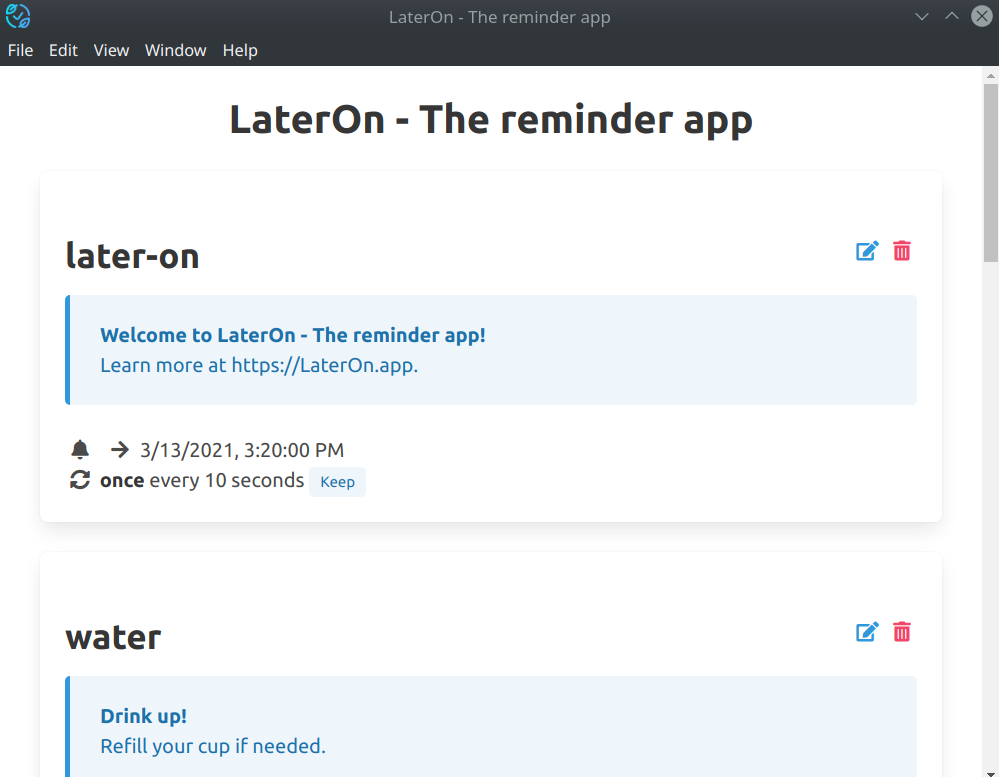
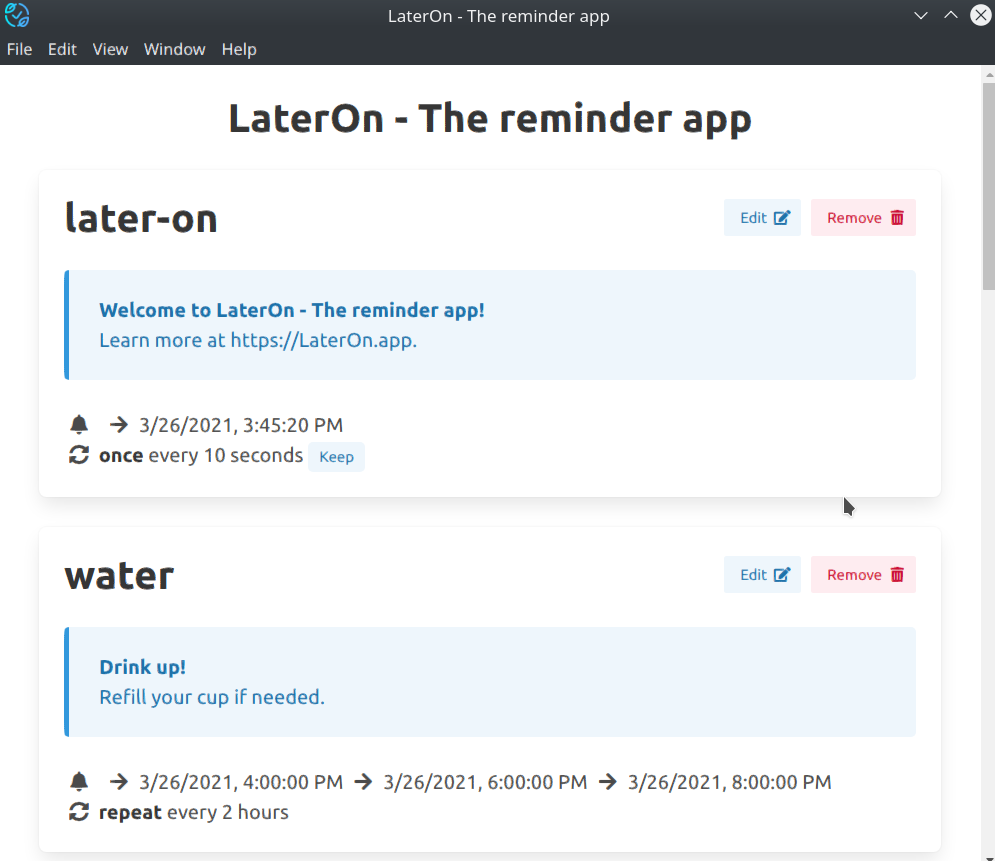
Improve UI, docs

diff --git a/later-on.js b/later-on.js
@@ -75,109 +75,121 @@ const reminders = new Reef('#reminders', {
       props.reminders.map((reminder, index) => {
         return `
           <div class='box' data-index="${index}">
-            <div class='content'>
-              <article class='is-pulled-right'>
-                <span class='icon has-text-info'>
-                  <i class="is-clickable fas fa-edit edit"></i>
-                </span>
-                <span class='icon has-text-danger'>
-                  <i class='is-clickable fas fa-trash-alt remove'></i>
-                </span>
-              </article>
-              ${reminder.editing
-                ? `
-                    <form class="edit">
-                      <input type="text" name="oldname" value="${reminder.name}" hidden>
-                      <div class="field">
-                        <label class="label" for="name">Name</label>
-                        <div class="control">
-                          <input class="input" type="text" name="name" reef-default-value="${reminder.name}" placeholder="Unique name">
-                        </div>
+            <nav class="level">
+              <div class="level-left">
+                <div class="level-item">
+                  <span class="title">${reminder.name}</span>
+                </div>
+              </div>
+              <div class="level-right">
+                <div class="level-item buttons">
+                  <button class="button is-light is-small is-info edit">
+                    <span>Edit</span>
+                    <span class="icon is-small">
+                      <i class="fas fa-edit"></i>
+                    </span>
+                  </button>
+                  <button class="button is-light is-small is-danger remove">
+                    <span>Remove</span>
+                    <span class="icon is-small">
+                      <i class="fas fa-trash-alt"></i>
+                    </span>
+                  </button>
+                </div>
+              </div>
+            </nav>
+            ${reminder.editing
+              ? `
+                  <form class="edit">
+                    <input type="text" name="oldname" value="${reminder.name}" hidden>
+                    <div class="field">
+                      <label class="label" for="name">Name</label>
+                      <div class="control">
+                        <input class="input" type="text" name="name" reef-default-value="${reminder.name}" placeholder="Unique name">
                       </div>
-                      <div class="field">
-                        <label class="label">Notification title</label>
-                        <div class="control">
-                          <input class="input" name="title" type="text" reef-default-value="${reminder.title}" placeholder="Notification title">
-                        </div>
-                      </div>
-                      <div class="field">
-                        <label class="label">Notification body</label>
-                        <div class="control">
-                          <input class="input" name="body" type="text" reef-default-value="${reminder.body}" placeholder="Notification body">
-                        </div>
-                      </div>
-                      <div class="field">
-                        <label class="label">Type</label>
-                        <div class="control">
-                          <div class="select">
-                            <select name="type">
-                              <option ${reminder.type === 'repeat' ? 'reef-default-selected' : ''}>repeat</option>
-                              <option ${reminder.type === 'once' ? 'reef-default-selected' : ''}>once</option>
-                              <option ${reminder.type === 'cron' ? 'reef-default-selected' : ''}>cron</option>
-                            </select>
-                          </div>
-                        </div>
-                      </div>
-                      <div class="field">
-                      ${reminder.editingType === 'once'
-                        ? `<label class="checkbox">
-                            <input type="checkbox" name="keep" ${reminder.keep ? 'reef-default-checked' : ''} >
-                            Don't remove after the notification.
-                          </label>`
-                        : ''
-                      }
-                      </div>
-                      <div class="field">
-                        <label class="label">Interval</label>
-                        <div class="control">
-                          <input class="input" name="interval" type="text" reef-default-value="${reminder.interval}" placeholder="Interval">
-                        </div>
-                      </div>
-                      <div class="field">
-                        <p class="help validation">${reminder.validation}</p>
-                      </div>
-                      <div class="field is-grouped">
-                        <div class="control">
-                          <a class="button is-link submit update" ${reminder.canSubmit ? '' : 'disabled'}>Submit</a>
-                        </div>
-                        <div class="control">
-                          <a class="button is-link is-light edit">Cancel</a>
-                        </div>
-                      </div>
-                    </form>
-                  `
-                : `
-                  <h2>${reminder.name}</h2>
-                  <article class='message is-info'>
-                    <div class='message-body'>
-                      <strong>${reminder.title}</strong><br/>
-                      ${reminder.body}
                     </div>
-                  </article>
-                  <article class='icon-text'>
-                    <span class='icon'>
-                      <i class='fas fa-bell'></i>
-                    </span>
-                    ${reminder.schedules.map((t) => {
-                    return `
-                    <span class='icon'>
-                      <i class='fas fa-arrow-right'></i>
-                    </span>
-                    <span>${new Date(t).toLocaleString()}</span>
-                    `
-                    }).join('')}
-                  </article>
-                  <article>
-                    <span class='icon'>
-                      <i class='fas fa-sync-alt'></i>
-                    </span>
-                    <strong>${reminder.type}</strong>
-                    ${reminder.interval}
-                    ${reminder.keep ? '<span class="tag is-info is-light">Keep</span>' : ''}
-                  </article>
+                    <div class="field">
+                      <label class="label">Notification title</label>
+                      <div class="control">
+                        <input class="input" name="title" type="text" reef-default-value="${reminder.title}" placeholder="Notification title">
+                      </div>
+                    </div>
+                    <div class="field">
+                      <label class="label">Notification body</label>
+                      <div class="control">
+                        <input class="input" name="body" type="text" reef-default-value="${reminder.body}" placeholder="Notification body">
+                      </div>
+                    </div>
+                    <div class="field">
+                      <label class="label">Type</label>
+                      <div class="control">
+                        <div class="select">
+                          <select name="type">
+                            <option ${reminder.type === 'repeat' ? 'reef-default-selected' : ''}>repeat</option>
+                            <option ${reminder.type === 'once' ? 'reef-default-selected' : ''}>once</option>
+                            <option ${reminder.type === 'cron' ? 'reef-default-selected' : ''}>cron</option>
+                          </select>
+                        </div>
+                      </div>
+                    </div>
+                    <div class="field">
+                    ${reminder.editingType === 'once'
+                      ? `<label class="checkbox">
+                          <input type="checkbox" name="keep" ${reminder.keep ? 'reef-default-checked' : ''} >
+                          Don't remove after the notification.
+                        </label>`
+                      : ''
+                    }
+                    </div>
+                    <div class="field">
+                      <label class="label">Interval</label>
+                      <div class="control">
+                        <input class="input" name="interval" type="text" reef-default-value="${reminder.interval}" placeholder="Interval">
+                      </div>
+                    </div>
+                    <div class="field">
+                      <p class="help validation">${reminder.validation}</p>
+                    </div>
+                    <div class="field is-grouped">
+                      <div class="control">
+                        <a class="button is-link submit update" ${reminder.canSubmit ? '' : 'disabled'}>Submit</a>
+                      </div>
+                      <div class="control">
+                        <button class="button is-link is-light edit">Cancel</button>
+                      </div>
+                    </div>
+                  </form>
                 `
-              }
-            </div>
+              : `
+                <article class='message is-info'>
+                  <div class='message-body'>
+                    <strong>${reminder.title}</strong><br/>
+                    ${reminder.body}
+                  </div>
+                </article>
+                <article class='icon-text'>
+                  <span class='icon'>
+                    <i class='fas fa-bell'></i>
+                  </span>
+                  ${reminder.schedules.map((t) => {
+                  return `
+                  <span class='icon'>
+                    <i class='fas fa-arrow-right'></i>
+                  </span>
+                  <span>${new Date(t).toLocaleString()}</span>
+                  `
+                  }).join('')}
+                </article>
+                <article>
+                  <span class='icon'>
+                    <i class='fas fa-sync-alt'></i>
+                  </span>
+                  <strong>${reminder.type}</strong>
+                  ${reminder.interval}
+                  ${reminder.keep ? '<span class="tag is-info is-light">Keep</span>' : ''}
+                </article>
+              `
+            }
           </div>
         `
       }).join('')
@@ -188,7 +200,8 @@ const reminders = new Reef('#reminders', {
 reminders.render()
 
 document.addEventListener('click', function (event) {
-  if (event.target.matches('.remove')) {
+  if (event.target.closest('button') && event.target.closest('button').matches('.remove')) {
+    event.preventDefault()
     const confirmation = confirm('Are you sure you want to remove this reminder?')
     if (confirmation) {
       const dataset = event.target.closest('.box').dataset
@@ -198,12 +211,14 @@ document.addEventListener('click', function (event) {
     }
   }
 
-  if (event.target.matches('.edit')) {
+  if (event.target.closest('button') && event.target.closest('button').matches('.edit')) {
+    event.preventDefault()
     const dataset = event.target.closest('.box').dataset
     store.do('updateValue', dataset.index, 'editing', '')
   }
 
   if (event.target.matches('.submit.update')) {
+    event.preventDefault()
     const dataset = event.target.closest('.box').dataset
     const form = event.target.closest('form')
     const data = new FormData(form)

diff --git a/main.js b/main.js
@@ -19,8 +19,8 @@ app.whenReady().then(() => {
           type: 'once',
           interval: 'every 10 seconds',
           keep: true,
-          title: 'Welcome to LaterOn!',
-          body: 'Add your own reminders by editing config file. Learn more at https://LaterOn.app.'
+          title: 'Welcome to LaterOn - The reiminder app!',
+          body: 'Learn more at https://LaterOn.app.'
         }
       ]
     }

diff --git a/later-on.html b/later-on.html
@@ -19,7 +19,7 @@
       </div>
     </div>
     <hr>
-    <div id="new">
+    <div id="new" class="block">
       <div class="has-text-centered">
         <i class="fas fa-spinner fa-spin"></i> Loading...
       </div>

diff --git a/README.md b/README.md
@@ -6,75 +6,49 @@
 
 *LaterOn* is a cross-platform [Electron](https://www.electronjs.org/) app that allows you to create custom reminders.
 
-Currently, *LaterOn* is considered an *alpha*-quality software. There's a UI to add/change/remove the reminders, plus menu items in Tray that allow you to open UI, quickly open config file, log file and Quit the app.
-
-Download from [Releases page](https://github.com/hovancik/later-on/releases).
+Currently, *LaterOn* is considered an *alpha*-quality software. Download it from [Releases page](https://github.com/hovancik/later-on/releases).
 
 [![Become a Sponsor!](https://img.shields.io/static/v1?label=Sponsor&message=%E2%9D%A4&logo=GitHub&color=success)](https://github.com/sponsors/hovancik) [![Become a Patron!](https://img.shields.io/static/v1?label=Sponsor&message=%E2%9D%A4&logo=Patreon&color=success)](https://www.patreon.com/hovancik)
 
-
 ## Reminders
 
-Reminders appear in a form of a regular OS notification.
+*LaterOn* lives in your tray and sends the reminders as defined by your schedule. They appear in a form of a regular OS notification. Here's an example of the default reminder that comes on the start of the app:
 
-<img src="notification.png" alt="LaterOn notification" height="100">
+<img src="notification.png" alt="LaterOn notification" height="90">
 
-You can set title and body of such a notification and when you would like it to be run.
+You can view your existing reminders from tray "Reminders" menu. Example notification is show, together with the next occurrences and the rule.
 
 <img src="reminders.png" alt="LaterOn">
 
-### Config file
+You can then edit or remove a reminder.
 
-You can add new reminders by editing config file (from tray menu) and then restarting *LaterOn* to load the changes done.
+<img src="edit-reminder.png" alt="LaterOn">
 
-Error will not be show if your timings can't be parsed, so you might want to check the log file when making changes via config file.
+**Name** is a unique identifier.
 
-#### Single run reminders
+**Notification title** is a title of the notification that you'll receive.
 
-On the first app run, example reminder gets created: we want to run only once (`"type": "once"`), but don't want to remove it (`"keep": true`) - user should do it manually. It will run ~10s every time after the app gets started (`"interval": "every 10 seconds"`).
+**Notification body** is a body of the notification that you'll receive.
 
-```json
-{
-  "reminders": [
-    {
-      "name": "later-on",
-      "type": "once",
-      "interval": "every 10 seconds",
-      "keep": true,
-      "title": "Welcome to Later On!",
-      "body": "Read more at https://lateron.app."
-    }
-  ]
-}
-```
-We use [this text parser](https://breejs.github.io/later/parsers.html#text) to specify when the reminder should be run.
+**Type** is an type of interval that you want to use. Can be either:
+  - **repeat** - notification is repeated according to the specified interval,
+  - **once** notification is shown once and then deleted - unless *Don't remove after the notification.* is checked.
+  - **cron** - which is a specific syntax for repeat type
 
-#### Multiple run reminders
+**Interval** let's you specify schedule for notifications.
 
- Let's say you want to reminder yourself to drink water every 2 hours. Specify [your interval](https://breejs.github.io/later/parsers.html#text) via `"type": "repeat"`.
+Here are some examples for *repeat* and *once* type *intervals*:
+- `every weekday at 9:00am also at 2:00pm`
+- `every weekday every 60 min starting on the 30th min after 8th hour and before 18th hour`
 
-```json
-{
-  "name": "water",
-  "type": "repeat",
-  "interval": "every 2 hours",
-  "title": "Drink up!",
-  "body": "Drink some water. Refill your cup if needed."
-}
-```
+Syntax is very flexible and you can learn more at [the docs of the used library](https://breejs.github.io/later/parsers.html#text).
 
-#### Cron reminders
-You can also use [cron](https://breejs.github.io/later/parsers.html#cron) synstax, ie. reminder to leave work at 5:15PM:
+You can also use [cron](https://breejs.github.io/later/parsers.html#cron) syntax.
 
-```json
-{
-  "name": "leave-work",
-  "type": "cron",
-  "interval": "15 17 ? * *",
-  "title": "Time to go :)",
-  "body": "Let's clock out, fill the time-sheets and run! "
-}
-```
+Same rules apply when adding new reminder, which can be found at the bottom of the screen.
+
+<img src="new-reminder.png" alt="LaterOn">
+
 
 ## Credits
 

diff --git a/CHANGELOG.md b/CHANGELOG.md
@@ -5,6 +5,12 @@ The format is based on [Keep a Changelog](https://keepachangelog.com/en/1.0.0/),
 and this project adheres to [Semantic Versioning](https://semver.org/spec/v2.0.0.html).
 
 ## [Unreleased]
+### Fixed
+- fix default reminder's notification
+
+### Changed
+- improve UI
+
 ## [0.0.2] - 2021-03-13
 ### Added
 - UI for adding, removing and updating reminders
